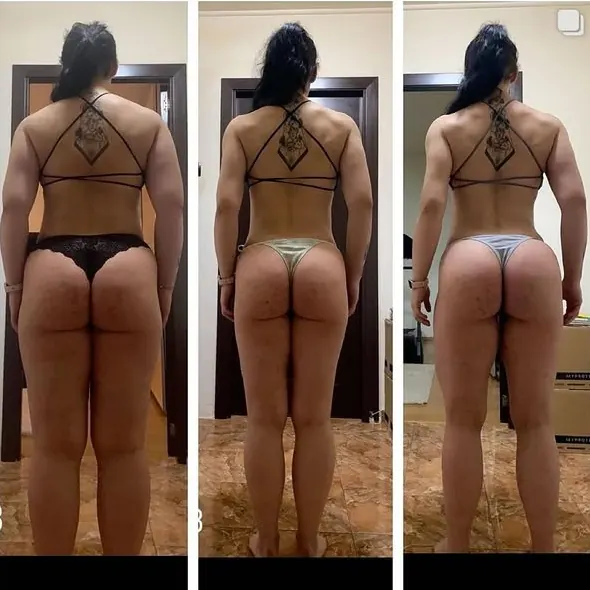
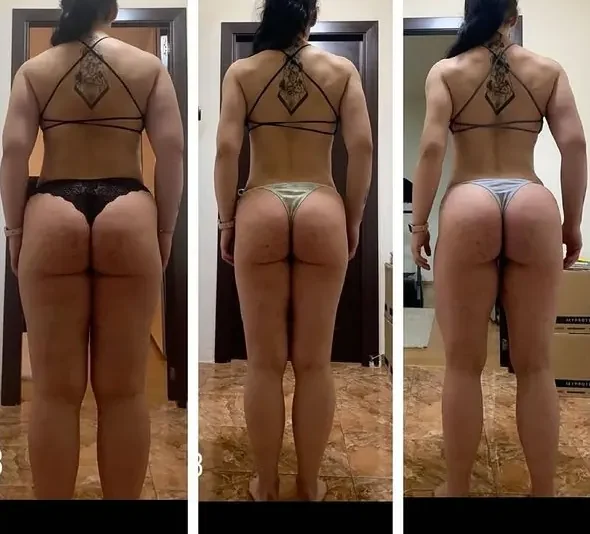
Oana funnel: results photos without story UI, remove thin line decor
Claude-Session: https://claude.ai/code/session_01UZT1vPCg4kpW7kindMm3eK

diff --git a/oana-purcaru/corpul-pe-care-il-vrei/index.html b/oana-purcaru/corpul-pe-care-il-vrei/index.html
@@ -41,7 +41,7 @@ html[data-pal="18"]{--main:#D7FF44;--mid:#E3FF7C;--hi:#EFFFB4;--dark:#386641;--d
 <script type="application/ld+json">{"@context": "https://schema.org", "@graph": [{"@type": "Book", "@id": "https://ebook.airwalk.ro/oana-purcaru/corpul-pe-care-il-vrei/#ghid", "name": "Corpul pe care îl vrei", "alternativeHeadline": "Ghid practic de slăbire", "description": "Ghid practic de slăbire și remodelare corporală: 10 capitole, 4 programe de antrenament pentru sală, harta mușchilor și rezultate reale.", "inLanguage": "ro", "bookFormat": "https://schema.org/EBook", "image": "https://ebook.airwalk.ro/oana-purcaru/corpul-pe-care-il-vrei/assets/pg/p1/0.webp", "url": "https://ebook.airwalk.ro/oana-purcaru/corpul-pe-care-il-vrei/", "offers": {"@type": "Offer", "price": "150", "priceCurrency": "RON", "availability": "https://schema.org/InStock", "url": "https://ebook.airwalk.ro/oana-purcaru/corpul-pe-care-il-vrei/#cumpara"}, "author": {"@id": "https://ebook.airwalk.ro/oana-purcaru/corpul-pe-care-il-vrei/#oana"}, "publisher": {"@type": "Organization", "name": "Airwalk", "url": "https://airwalk.ro"}}, {"@type": "Person", "@id": "https://ebook.airwalk.ro/oana-purcaru/corpul-pe-care-il-vrei/#oana", "name": "Oana Purcaru", "jobTitle": "Antrenor personal, IFBB Pro Wellness", "worksFor": {"@type": "SportsActivityLocation", "name": "BodyFit Gym", "url": "https://bodyfitcraiova.ro", "address": {"@type": "PostalAddress", "addressLocality": "Craiova", "addressCountry": "RO"}}, "sameAs": ["https://www.instagram.com/purcaru.oana/"]}, {"@type": "BreadcrumbList", "itemListElement": [{"@type": "ListItem", "position": 1, "name": "Ghiduri Airwalk", "item": "https://ebook.airwalk.ro/"}, {"@type": "ListItem", "position": 2, "name": "Corpul pe care îl vrei", "item": "https://ebook.airwalk.ro/oana-purcaru/corpul-pe-care-il-vrei/"}]}, {"@type": "WebPage", "@id": "https://ebook.airwalk.ro/oana-purcaru/corpul-pe-care-il-vrei/", "url": "https://ebook.airwalk.ro/oana-purcaru/corpul-pe-care-il-vrei/", "name": "Corpul pe care îl vrei: ghid de slăbire de Oana Purcaru", "inLanguage": "ro", "about": {"@id": "https://ebook.airwalk.ro/oana-purcaru/corpul-pe-care-il-vrei/#ghid"}, "dateModified": "2026-11-22"}]}</script>
 </head>
 <body>
-<div class="fx" aria-hidden="true"><svg class="dk to" style="left:1.6%;top:22%" data-sp="1" viewBox="0 0 20 18"><path d="M10 1.5L18.5 16.5H1.5Z"/></svg><i class="dk dg" style="right:1.2%;top:14%;--c:6;--r:4" data-sp="0.4"></i><svg class="dk tf" style="right:2.2%;top:62%" data-sp="1.6" viewBox="0 0 20 18"><path d="M10 1.5L18.5 16.5H1.5Z"/></svg><i class="dk ln" style="left:.6%;top:74%" data-sp="0.7"></i><i class="dk rg" style="left:1.2%;top:46%" data-sp="0.9"></i><svg class="dk to" style="right:1.4%;top:84%" data-sp="1.3" viewBox="0 0 20 18"><path d="M10 1.5L18.5 16.5H1.5Z"/></svg></div>
+<div class="fx" aria-hidden="true"><svg class="dk to" style="left:1.6%;top:22%" data-sp="1" viewBox="0 0 20 18"><path d="M10 1.5L18.5 16.5H1.5Z"/></svg><i class="dk dg" style="right:1.2%;top:14%;--c:6;--r:4" data-sp="0.4"></i><svg class="dk tf" style="right:2.2%;top:62%" data-sp="1.6" viewBox="0 0 20 18"><path d="M10 1.5L18.5 16.5H1.5Z"/></svg><i class="dk rg" style="left:1.2%;top:46%" data-sp="0.9"></i><svg class="dk to" style="right:1.4%;top:84%" data-sp="1.3" viewBox="0 0 20 18"><path d="M10 1.5L18.5 16.5H1.5Z"/></svg></div>
 <a class="skip" href="#ghid">Sari la conținut</a>
 
 <div class="loader" aria-hidden="true">
@@ -97,7 +97,7 @@ html[data-pal="18"]{--main:#D7FF44;--mid:#E3FF7C;--hi:#EFFFB4;--dark:#386641;--d
 
 <!-- ============ STATEMENT ============ -->
 <section class="dzs stmt" id="ghid" aria-label="Despre ghid">
-  <div class="dz" aria-hidden="true"><svg class="dk to" style="left:4%;top:16%" data-sp="0.5" viewBox="0 0 20 18"><path d="M10 1.5L18.5 16.5H1.5Z"/></svg><i class="dk dg" style="right:4%;bottom:14%;--c:6;--r:4" data-sp="0.3"></i><i class="dk ln" style="right:8%;top:12%" data-sp="0.8"></i><svg class="dk tf" style="left:46%;bottom:8%" data-sp="1.1" viewBox="0 0 20 18"><path d="M10 1.5L18.5 16.5H1.5Z"/></svg></div>
+  <div class="dz" aria-hidden="true"><svg class="dk to" style="left:4%;top:16%" data-sp="0.5" viewBox="0 0 20 18"><path d="M10 1.5L18.5 16.5H1.5Z"/></svg><i class="dk dg" style="right:4%;bottom:14%;--c:6;--r:4" data-sp="0.3"></i><svg class="dk tf" style="left:46%;bottom:8%" data-sp="1.1" viewBox="0 0 20 18"><path d="M10 1.5L18.5 16.5H1.5Z"/></svg></div>
   <div class="wrap">
     <span class="tag dark">Despre ghid ▾</span>
     <p class="big" data-fill>Poți pierde kilograme și totuși să nu-ți placă ce vezi în oglindă. Ghidul ăsta îți arată cum slăbești păstrând mușchiul, ca să-ți schimbi forma, nu doar cifra de pe cântar.</p>
@@ -234,7 +234,7 @@ html[data-pal="18"]{--main:#D7FF44;--mid:#E3FF7C;--hi:#EFFFB4;--dark:#386641;--d
 <!-- ============ RESULTS ============ -->
 <div class="seam s3" aria-hidden="true"><i class="sg"></i><svg class="st t1" viewBox="0 0 20 18"><path d="M10 1.5L18.5 16.5H1.5Z"/></svg><svg class="st t2" viewBox="0 0 20 18"><path d="M10 1.5L18.5 16.5H1.5Z"/></svg><svg class="st t3" viewBox="0 0 20 18"><path d="M10 1.5L18.5 16.5H1.5Z"/></svg><i class="dg sd" style="--c:7;--r:4"></i></div>
 <section class="dzs rz light" id="rezultate" aria-labelledby="h-rz">
-  <div class="dz" aria-hidden="true"><svg class="dk to" style="left:2%;top:22%" data-sp="0.6" viewBox="0 0 20 18"><path d="M10 1.5L18.5 16.5H1.5Z"/></svg><i class="dk rg" style="right:2.5%;top:52%" data-sp="0.9"></i><i class="dk dg" style="right:3%;bottom:6%;--c:6;--r:4" data-sp="0.3"></i><i class="dk ln" style="left:4%;bottom:16%" data-sp="0.7"></i></div>
+  <div class="dz" aria-hidden="true"><svg class="dk to" style="left:2%;top:22%" data-sp="0.6" viewBox="0 0 20 18"><path d="M10 1.5L18.5 16.5H1.5Z"/></svg><i class="dk rg" style="right:2.5%;top:52%" data-sp="0.9"></i><i class="dk dg" style="right:3%;bottom:6%;--c:6;--r:4" data-sp="0.3"></i></div>
   <div class="wrap">
     <div class="sh"><span class="k">Rezultate · clientele mele</span><h2 id="h-rz">Rezultate <em>reale.</em></h2>
       <p class="intro">Fiecare fotografie de aici este o femeie reală, care a pornit exact de unde ești tu acum. Am lucrat cu ele în sală, la BodyFit, sau online. Nicio rețetă magică: antrenament cu greutăți, mâncare simplă și răbdare.</p></div>
@@ -243,7 +243,7 @@ html[data-pal="18"]{--main:#D7FF44;--mid:#E3FF7C;--hi:#EFFFB4;--dark:#386641;--d
 <figcaption><b class="big" data-num="−23,8 kg">−23,8 kg</b><span>De la 88,4 kg la 64,6 kg</span></figcaption></figure></div>
     <h3 class="rzh">Mai multe transformări</h3>
     <div class="lens sq" data-lens data-ar="1.0" data-fit="contain" role="region" aria-roledescription="carusel" aria-label="Transformările clientelor" tabindex="0">
-<div class="lens-stage" data-cur="Trage"><canvas aria-hidden="true"></canvas><ul class="lens-fb"><li data-k="Transformare reală" data-t="24 de săptămâni" data-c="Clientă online"><img src="assets/img/rz-marta.webp" alt="Transformare înainte și după: Clientă online" loading="lazy" width="590" height="590"><span><b>24 de săptămâni</b> Clientă online</span></li><li data-k="Transformare reală" data-t="2 săptămâni" data-c="Vio, 47 de ani · primele rezultate"><img src="assets/img/rz-vio.webp" alt="Transformare înainte și după: Vio, 47 de ani" loading="lazy" width="640" height="350"><span><b>2 săptămâni</b> Vio, 47 de ani · primele rezultate</span></li><li data-k="Transformare reală" data-t="−9 kg" data-c="în 8 săptămâni"><img src="assets/img/rz-v01.webp" alt="Transformare înainte și după: în 8 săptămâni" loading="lazy" width="319" height="350"><span><b>−9 kg</b> în 8 săptămâni</span></li><li data-k="Transformare reală" data-t="3 săptămâni" data-c="diferența se vede"><img src="assets/img/rz-v13.webp" alt="Transformare înainte și după: diferența se vede" loading="lazy" width="360" height="360"><span><b>3 săptămâni</b> diferența se vede</span></li><li data-k="Transformare reală" data-t="2–3 antrenamente" data-c="pe săptămână"><img src="assets/img/rz-v04.webp" alt="Transformare înainte și după: pe săptămână" loading="lazy" width="319" height="335"><span><b>2–3 antrenamente</b> pe săptămână</span></li><li data-k="Transformare reală" data-t="După sarcină" data-c="slăbire sănătoasă"><img src="assets/img/rz-bf12.webp" alt="Transformare înainte și după: slăbire sănătoasă" loading="lazy" width="592" height="592"><span><b>După sarcină</b> slăbire sănătoasă</span></li></ul></div>
+<div class="lens-stage" data-cur="Trage"><canvas aria-hidden="true"></canvas><ul class="lens-fb"><li data-k="Transformare reală" data-t="24 de săptămâni" data-c="Clientă online"><img src="assets/img/rz-marta.webp" alt="Transformare înainte și după: Clientă online" loading="lazy" width="590" height="534"><span><b>24 de săptămâni</b> Clientă online</span></li><li data-k="Transformare reală" data-t="2 săptămâni" data-c="Vio, 47 de ani · primele rezultate"><img src="assets/img/rz-vio.webp" alt="Transformare înainte și după: Vio, 47 de ani" loading="lazy" width="640" height="350"><span><b>2 săptămâni</b> Vio, 47 de ani · primele rezultate</span></li><li data-k="Transformare reală" data-t="−9 kg" data-c="în 8 săptămâni"><img src="assets/img/rz-v01.webp" alt="Transformare înainte și după: în 8 săptămâni" loading="lazy" width="319" height="320"><span><b>−9 kg</b> în 8 săptămâni</span></li><li data-k="Transformare reală" data-t="3 săptămâni" data-c="diferența se vede"><img src="assets/img/rz-v13.webp" alt="Transformare înainte și după: diferența se vede" loading="lazy" width="360" height="360"><span><b>3 săptămâni</b> diferența se vede</span></li><li data-k="Transformare reală" data-t="2–3 antrenamente" data-c="pe săptămână"><img src="assets/img/rz-v04.webp" alt="Transformare înainte și după: pe săptămână" loading="lazy" width="319" height="305"><span><b>2–3 antrenamente</b> pe săptămână</span></li><li data-k="Transformare reală" data-t="După sarcină" data-c="slăbire sănătoasă"><img src="assets/img/rz-bf12.webp" alt="Transformare înainte și după: slăbire sănătoasă" loading="lazy" width="1100" height="1100"><span><b>După sarcină</b> slăbire sănătoasă</span></li></ul></div>
 <div class="lens-bar"><div class="lens-cap in" aria-live="polite"><span class="lk"></span><b class="lt"></b><span class="lc"></span></div>
 <div class="lens-ctl"><span class="lens-count"><b class="lens-n">01</b> / 06</span><button class="lens-prev" type="button" aria-label="Înapoi">←</button><button class="lens-next" type="button" aria-label="Înainte">→</button></div></div>
 <p class="lens-hint" aria-hidden="true">Trage ca să răsfoiești</p></div>
@@ -320,7 +320,7 @@ html[data-pal="18"]{--main:#D7FF44;--mid:#E3FF7C;--hi:#EFFFB4;--dark:#386641;--d
 <!-- ============ FAQ ============ -->
 <div class="seam s7" aria-hidden="true"><i class="sg"></i><svg class="st t1" viewBox="0 0 20 18"><path d="M10 1.5L18.5 16.5H1.5Z"/></svg><svg class="st t2" viewBox="0 0 20 18"><path d="M10 1.5L18.5 16.5H1.5Z"/></svg><svg class="st t3" viewBox="0 0 20 18"><path d="M10 1.5L18.5 16.5H1.5Z"/></svg><i class="dg sd" style="--c:7;--r:3"></i></div>
 <section class="dzs faq light" id="intrebari" aria-labelledby="h-faq">
-  <div class="dz" aria-hidden="true"><svg class="dk to" style="left:4%;top:18%" data-sp="0.7" viewBox="0 0 20 18"><path d="M10 1.5L18.5 16.5H1.5Z"/></svg><i class="dk ln" style="right:5%;top:28%" data-sp="0.9"></i><i class="dk dg" style="left:2.5%;bottom:14%;--c:6;--r:4" data-sp="0.3"></i><svg class="dk tf" style="right:8%;bottom:10%" data-sp="1.1" viewBox="0 0 20 18"><path d="M10 1.5L18.5 16.5H1.5Z"/></svg></div>
+  <div class="dz" aria-hidden="true"><svg class="dk to" style="left:4%;top:18%" data-sp="0.7" viewBox="0 0 20 18"><path d="M10 1.5L18.5 16.5H1.5Z"/></svg><i class="dk dg" style="left:2.5%;bottom:14%;--c:6;--r:4" data-sp="0.3"></i><svg class="dk tf" style="right:8%;bottom:10%" data-sp="1.1" viewBox="0 0 20 18"><path d="M10 1.5L18.5 16.5H1.5Z"/></svg></div>
   <div class="wrap">
     <div class="sh ctr"><span class="k">Întrebări frecvente</span><h2 id="h-faq">Ce ne <em>întreabă lumea.</em></h2></div>
     <div class="orb" role="region" aria-roledescription="carusel" aria-label="Întrebări frecvente">
@@ -335,7 +335,7 @@ html[data-pal="18"]{--main:#D7FF44;--mid:#E3FF7C;--hi:#EFFFB4;--dark:#386641;--d
 
 <div class="seam s8" aria-hidden="true"><i class="sg"></i><svg class="st t1" viewBox="0 0 20 18"><path d="M10 1.5L18.5 16.5H1.5Z"/></svg><svg class="st t2" viewBox="0 0 20 18"><path d="M10 1.5L18.5 16.5H1.5Z"/></svg><svg class="st t3" viewBox="0 0 20 18"><path d="M10 1.5L18.5 16.5H1.5Z"/></svg><i class="dg sd" style="--c:5;--r:3"></i></div>
 <footer class="foot dzs">
-  <div class="dz" aria-hidden="true"><svg class="dk to" style="right:7%;top:14%" data-sp="0.7" viewBox="0 0 20 18"><path d="M10 1.5L18.5 16.5H1.5Z"/></svg><i class="dk dg" style="left:3%;top:10%;--c:6;--r:4" data-sp="0.3"></i><i class="dk ln" style="left:30%;top:6%" data-sp="0.8"></i></div>
+  <div class="dz" aria-hidden="true"><svg class="dk to" style="right:7%;top:14%" data-sp="0.7" viewBox="0 0 20 18"><path d="M10 1.5L18.5 16.5H1.5Z"/></svg><i class="dk dg" style="left:3%;top:10%;--c:6;--r:4" data-sp="0.3"></i></div>
   <div class="fbig" aria-hidden="true"><span>Corpul pe care</span><span>îl vrei.</span></div>
   <div class="wrap fcols">
     <div><b class="fb">Oana Purcaru</b><p>IFBB Pro Wellness · BodyFit Gym Craiova</p><p><a class="tl" href="https://www.instagram.com/purcaru.oana/" target="_blank" rel="noopener">@purcaru.oana</a> · <a class="tl" href="https://www.instagram.com/bodyfitgym_ems/" target="_blank" rel="noopener">@bodyfitgym_ems</a></p></div>
